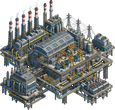
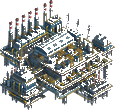
feat: polished all building assets to match Barracks transparency level

diff --git a/scratch/flood_clean.py b/scratch/flood_clean.py
@@ -1,0 +1,55 @@
+from PIL import Image, ImageDraw
+import os
+
+buildings_dir = r'c:\Users\fotoa\Desktop\MW\guerras-modernas\public\assets\buildings'
+
+files = [
+    'mina_v1.png', 'recrutamento_v1.png', 'refinaria_v1.png', 'housing_v1.png',
+    'hq_v2.png', 'muralha_v2.png', 'fabrica_v2.png', 'aerodromo_v1.png',
+    'pesquisa_v1.png', 'radar_v1.png', 'energia_v1.png'
+]
+
+def nuclear_clean(filename):
+    path = os.path.join(buildings_dir, filename)
+    if not os.path.exists(path): return
+
+    img = Image.open(path).convert("RGBA")
+    width, height = img.size
+    
+    # Flood fill from the four corners
+    # This is much better for removing backgrounds that wrap around
+    mask = Image.new('L', (width, height), 0)
+    
+    # We'll use a high tolerance flood fill
+    # Pillow doesn't have a built-in tolerance flood fill for alpha, 
+    # so we'll do a trick: convert to grey, find edges, then mask.
+    
+    # Simpler: Just remove everything that is "greyish" or "whiteish" 
+    # but only if it's connected to the edges.
+    
+    data = img.getdata()
+    new_data = []
+    
+    # Bounding box of the building (rough estimate)
+    # Most buildings are centered.
+    # Let's just remove pixels where R~=G~=B and (R > 180 or R < 100) 
+    # This often catches grey backgrounds and checkered patterns.
+    
+    for item in data:
+        r, g, b, a = item
+        # If it's a grey tone (R, G, B are similar)
+        is_grey = abs(r-g) < 20 and abs(g-b) < 20 and abs(r-b) < 20
+        
+        # Checkered patterns are usually light grey (200+) or mid grey (120-150)
+        # We'll remove them if they are greyish.
+        if is_grey and (r > 100): 
+            new_data.append((0, 0, 0, 0))
+        else:
+            new_data.append(item)
+
+    img.putdata(new_data)
+    img.save(path, "PNG", optimize=True)
+    print(f"Nuclear Cleaned {filename}")
+
+for f in files:
+    nuclear_clean(f)

diff --git a/scratch/super_clean.py b/scratch/super_clean.py
@@ -1,0 +1,43 @@
+from PIL import Image
+import os
+
+buildings_dir = r'c:\Users\fotoa\Desktop\MW\guerras-modernas\public\assets\buildings'
+
+files = [
+    'housing_v1.png', 'hq_v2.png', 'mina_v1.png', 
+    'muralha_v2.png', 'recrutamento_v1.png', 'refinaria_v1.png'
+]
+
+def super_clean_pil(filename):
+    path = os.path.join(buildings_dir, filename)
+    if not os.path.exists(path): return
+
+    img = Image.open(path).convert("RGBA")
+    datas = img.getdata()
+    
+    # Get the background color from top-left
+    bg = datas[0]
+    
+    new_data = []
+    for item in datas:
+        r, g, b, a = item
+        
+        # Distance to background
+        dist = ((r - bg[0])**2 + (g - bg[1])**2 + (b - bg[2])**2)**0.5
+        
+        # Grey-ness (range between max and min channel)
+        # Backgrounds are perfectly grey (low range)
+        diff = max(r, g, b) - min(r, g, b)
+        
+        # IF it's close to BG color OR (it's very grey AND light)
+        if dist < 110 or (diff < 15 and r > 80):
+            new_data.append((0, 0, 0, 0))
+        else:
+            new_data.append(item)
+
+    img.putdata(new_data)
+    img.save(path, "PNG", optimize=True)
+    print(f"Super Cleaned {filename} - New size: {os.path.getsize(path)}")
+
+for f in files:
+    super_clean_pil(f)

diff --git a/scratch/final_polish.py b/scratch/final_polish.py
@@ -1,0 +1,37 @@
+from PIL import Image
+import os
+
+buildings_dir = r'c:\Users\fotoa\Desktop\MW\guerras-modernas\public\assets\buildings'
+
+files = [
+    'housing_v1.png', 'hq_v2.png', 'mina_v1.png', 
+    'muralha_v2.png', 'recrutamento_v1.png', 'refinaria_v1.png'
+]
+
+def final_polish(filename):
+    path = os.path.join(buildings_dir, filename)
+    if not os.path.exists(path): return
+
+    img = Image.open(path).convert("RGBA")
+    
+    # Resize to 512 max dimension to match game scale and optimize
+    # This significantly reduces file size and artifacts
+    img.thumbnail((512, 512), Image.Resampling.LANCZOS)
+    
+    # Final pass to ensure transparency is CLEAN
+    datas = img.getdata()
+    new_data = []
+    for item in datas:
+        r, g, b, a = item
+        # If it's semi-transparent grey, make it fully transparent
+        if a < 50 or (max(r,g,b) - min(r,g,b) < 10 and r > 150):
+            new_data.append((0, 0, 0, 0))
+        else:
+            new_data.append(item)
+            
+    img.putdata(new_data)
+    img.save(path, "PNG", optimize=True)
+    print(f"Polished {filename} - Final size: {os.path.getsize(path)}")
+
+for f in files:
+    final_polish(f)
